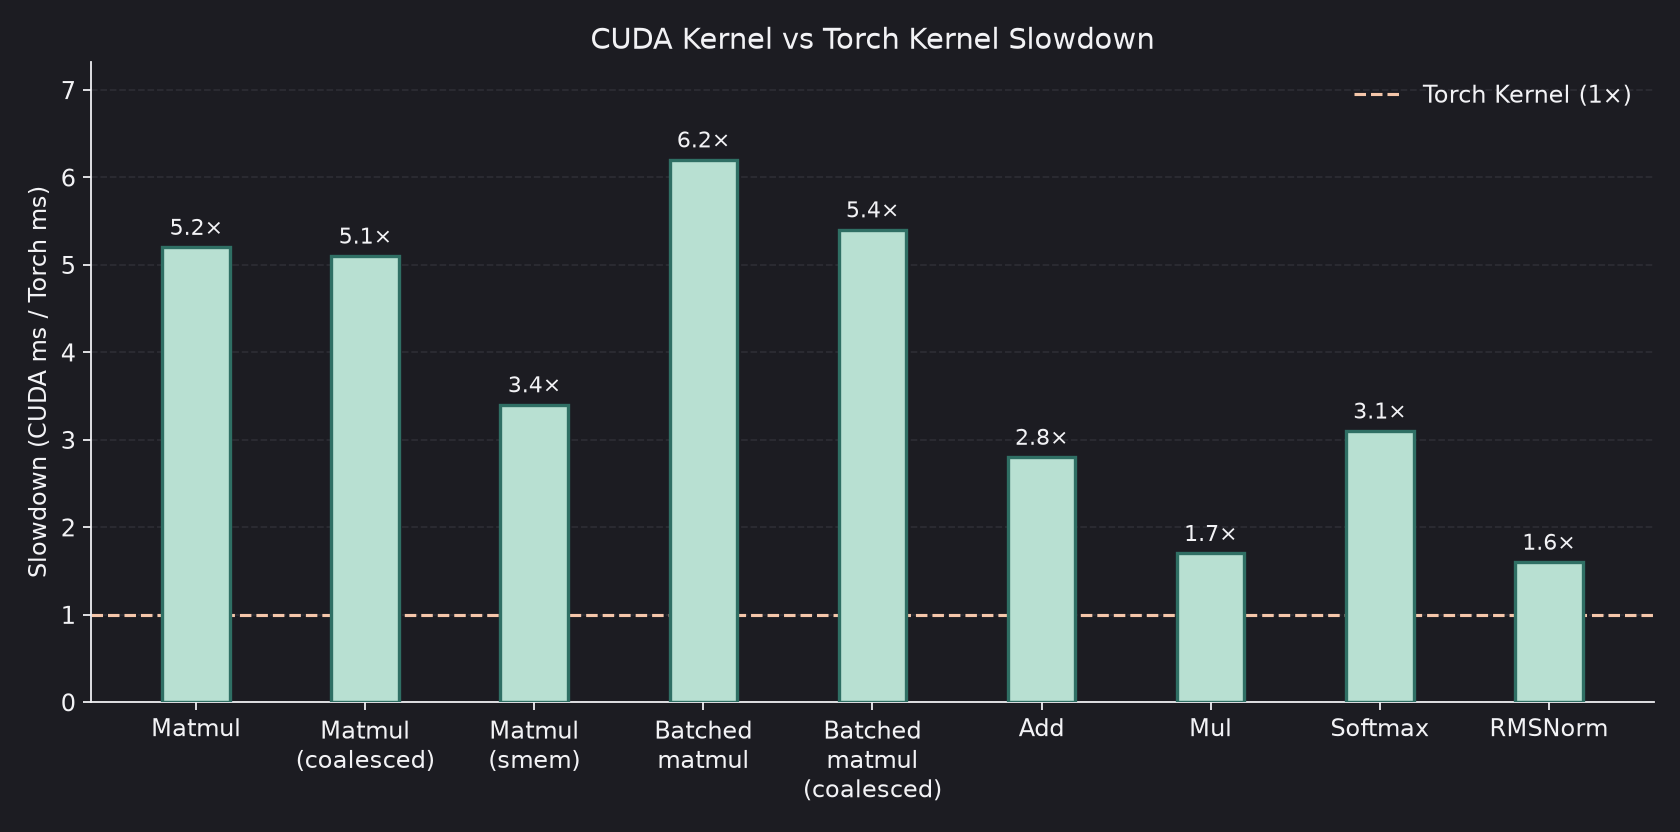
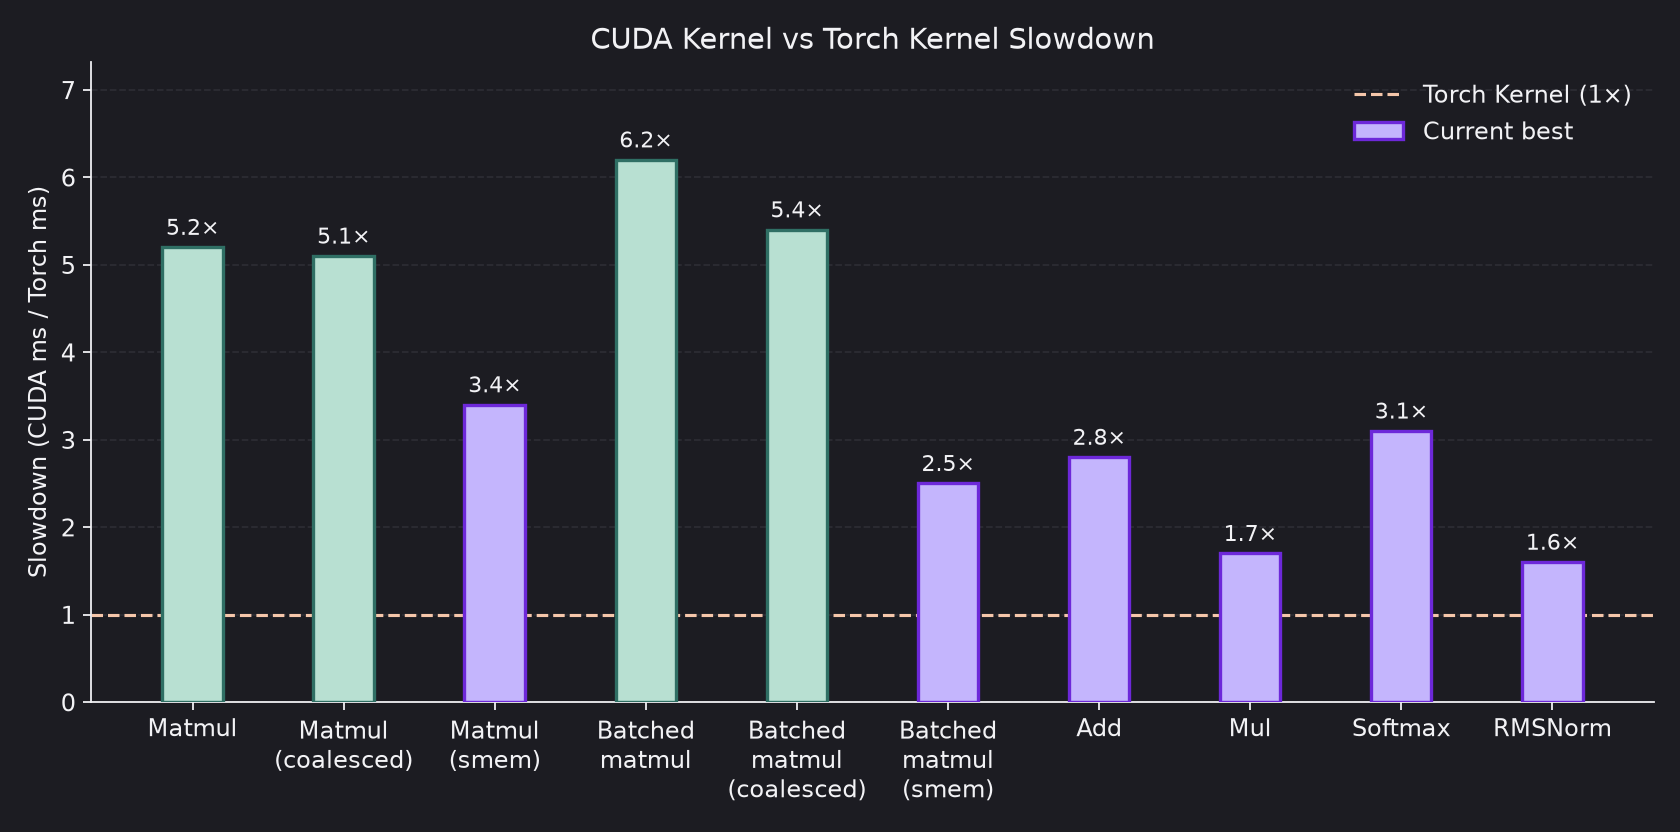
smem, testing and profiled for layer 0, still locked out of layer 2 on the cluster

diff --git a/profiling/plot_layer0.py b/profiling/plot_layer0.py
@@ -14,6 +14,7 @@ from pathlib import Path
 
 import matplotlib.pyplot as plt
 import numpy as np
+from matplotlib.patches import Patch
 
 
 HERE = Path(__file__).resolve().parent
@@ -26,6 +27,7 @@ LABELS = {
     "matmul_smem": "Matmul\n(smem)",
     "batch_matmul": "Batched\nmatmul",
     "batch_matmul_coalesced": "Batched\nmatmul\n(coalesced)",
+    "batch_matmul_smem": "Batched\nmatmul\n(smem)",
     "addition": "Add",
     "multi": "Mul",
     "softmax": "Softmax",
@@ -39,6 +41,8 @@ CUDA_COLOR = "#B8E0D2"
 CUDA_EDGE = "#2F6F64"
 TORCH_COLOR = "#F5C6AA"
 TORCH_EDGE = "#8B4A32"
+BEST_COLOR = "#C4B5FD"
+BEST_EDGE = "#6D28D9"
 ERROR_COLOR = "#E8E8ED"
 BAR_EDGEWIDTH = 1.5
 GROUPED_BAR_WIDTH = 0.22
@@ -48,6 +52,25 @@ SLOWDOWN_BAR_WIDTH = 0.4
 def load_rows():
     with CSV_PATH.open(newline="") as f:
         return list(csv.DictReader(f))
+
+
+def _kernel_family(name):
+    if name.startswith("batch_matmul"):
+        return "batch_matmul"
+    if name.startswith("matmul"):
+        return "matmul"
+    return name
+
+
+def _best_indices(rows):
+    """Lowest slowdown in each kernel family (current best of that type)."""
+    best = {}
+    for i, row in enumerate(rows):
+        family = _kernel_family(row["kernel"])
+        slowdown = float(row["slowdown"])
+        if family not in best or slowdown < best[family][1]:
+            best[family] = (i, slowdown)
+    return {i for i, _ in best.values()}
 
 
 def _style():
@@ -145,23 +168,44 @@ def plot_slowdown(rows):
     names = [LABELS[r["kernel"]] for r in rows]
     slowdown = np.array([float(r["slowdown"]) for r in rows])
     x = np.arange(len(names))
+    best_idxs = _best_indices(rows)
+    colors = [BEST_COLOR if i in best_idxs else CUDA_COLOR for i in range(len(rows))]
+    edges = [BEST_EDGE if i in best_idxs else CUDA_EDGE for i in range(len(rows))]
 
     fig, ax = plt.subplots(figsize=(10.5, 5.2))
     bars = ax.bar(
         x,
         slowdown,
         width=SLOWDOWN_BAR_WIDTH,
-        color=CUDA_COLOR,
-        edgecolor=CUDA_EDGE,
+        color=colors,
+        edgecolor=edges,
         linewidth=BAR_EDGEWIDTH,
         zorder=3,
     )
-    ax.axhline(1.0, color=TORCH_COLOR, linestyle="--", linewidth=1.4, label="Torch Kernel (1×)")
+    ax.axhline(1.0, color=TORCH_COLOR, linestyle="--", linewidth=1.4)
     ax.set_ylabel("Slowdown (CUDA ms / Torch ms)")
     ax.set_xticks(x)
     ax.set_xticklabels(names)
     ax.set_title("CUDA Kernel vs Torch Kernel Slowdown")
-    ax.legend(frameon=False)
+    ax.legend(
+        handles=[
+            plt.Line2D(
+                [0],
+                [0],
+                color=TORCH_COLOR,
+                linestyle="--",
+                linewidth=1.4,
+                label="Torch Kernel (1×)",
+            ),
+            Patch(
+                facecolor=BEST_COLOR,
+                edgecolor=BEST_EDGE,
+                linewidth=BAR_EDGEWIDTH,
+                label="Current best",
+            ),
+        ],
+        frameon=False,
+    )
     ax.yaxis.grid(True, linestyle="--", alpha=0.35, zorder=0)
     for bar, val in zip(bars, slowdown):
         ax.text(

diff --git a/profiling/results/profiling_layer_0.md b/profiling/results/profiling_layer_0.md
@@ -66,6 +66,18 @@ Torch:    8.55 TFLOPS
 
 ```
 
+- Batched Matmul Profile (smem):
+
+```bash
+kernel:   batch_matmul  (64, 256, 128) @ (64, 128, 256)
+CUDA:     0.327 ± 0.006 ms
+Torch:    0.130 ± 0.004 ms
+slowdown: 2.5x
+CUDA:     3.28 TFLOPS
+Torch:    8.25 TFLOPS
+
+```
+
 - Elementwise Add Profile:
 
 ```python

diff --git a/docker/changes.md b/docker/changes.md
@@ -52,6 +52,8 @@ v0.0.5 - Warp Coalescing for the MatMul and Batched MatMul.
 
 v0.0.6 - Smem MatMul and Batched MatMul
 
+v0.0.7 - Smem Batched MatMul layer 0 numbers
+
 ### Profiling Layer 1
 
 v0.0.1 - first draft of layer 1 of profiling pipeline.
